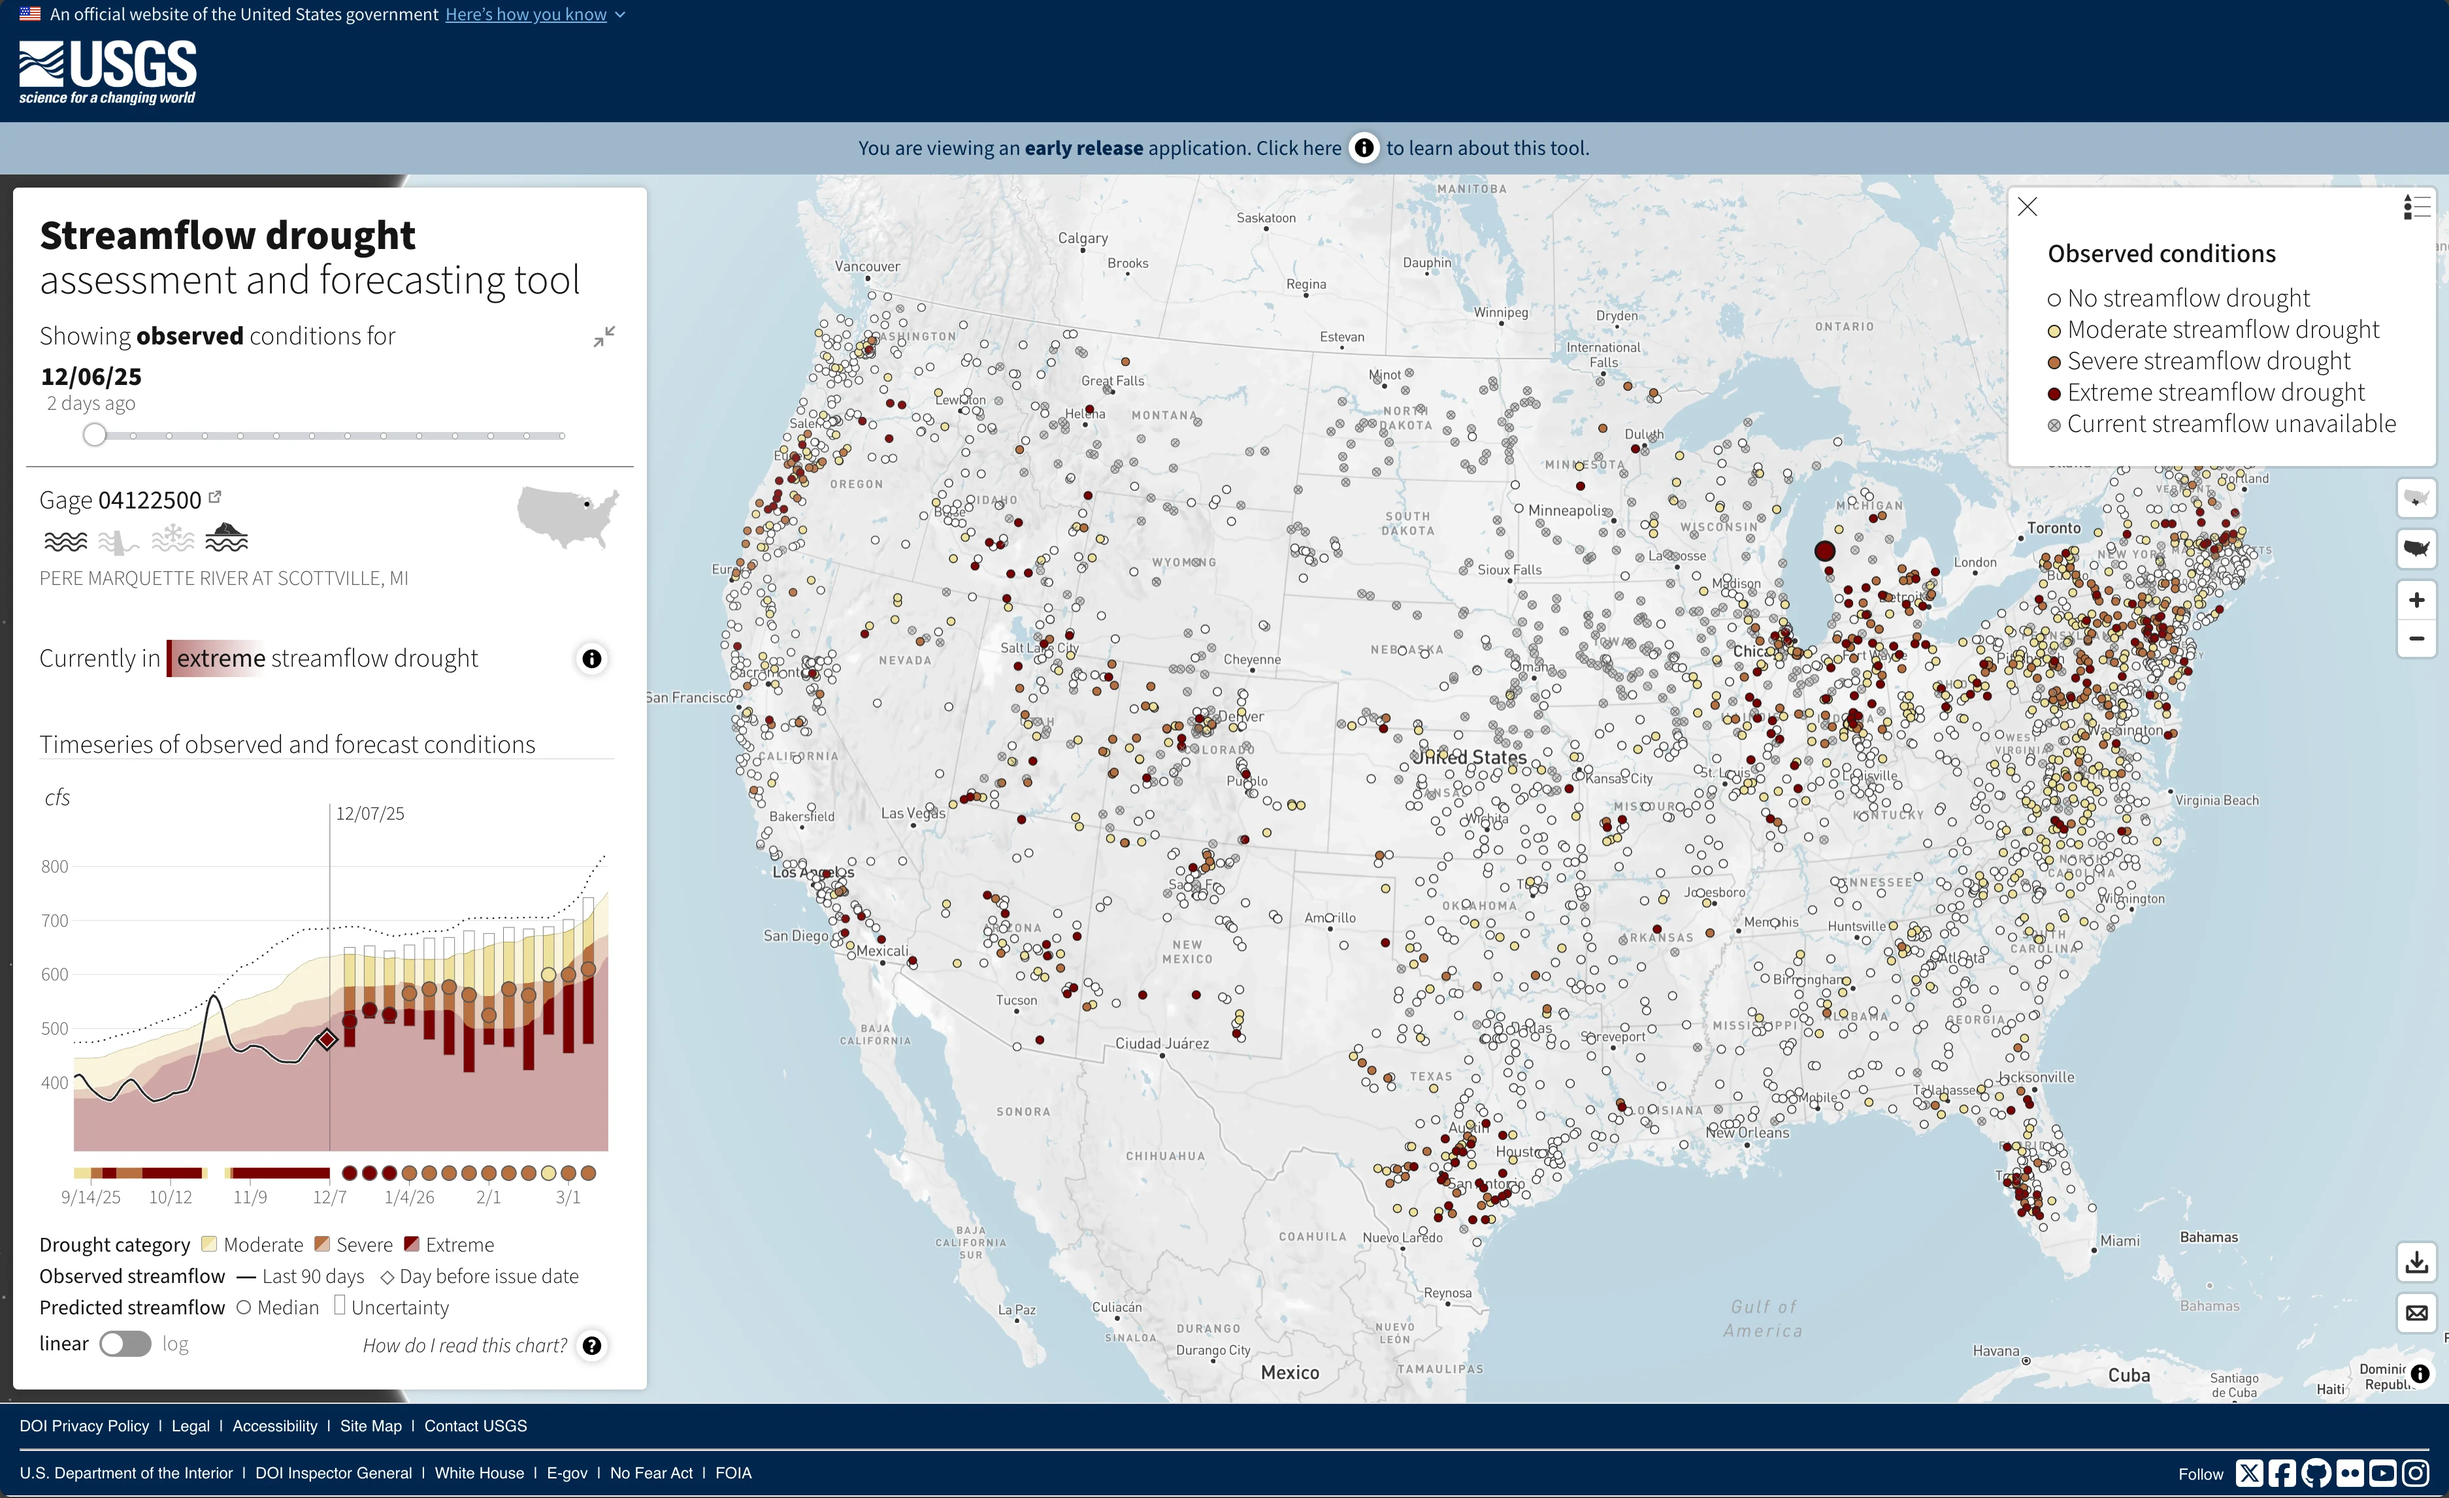
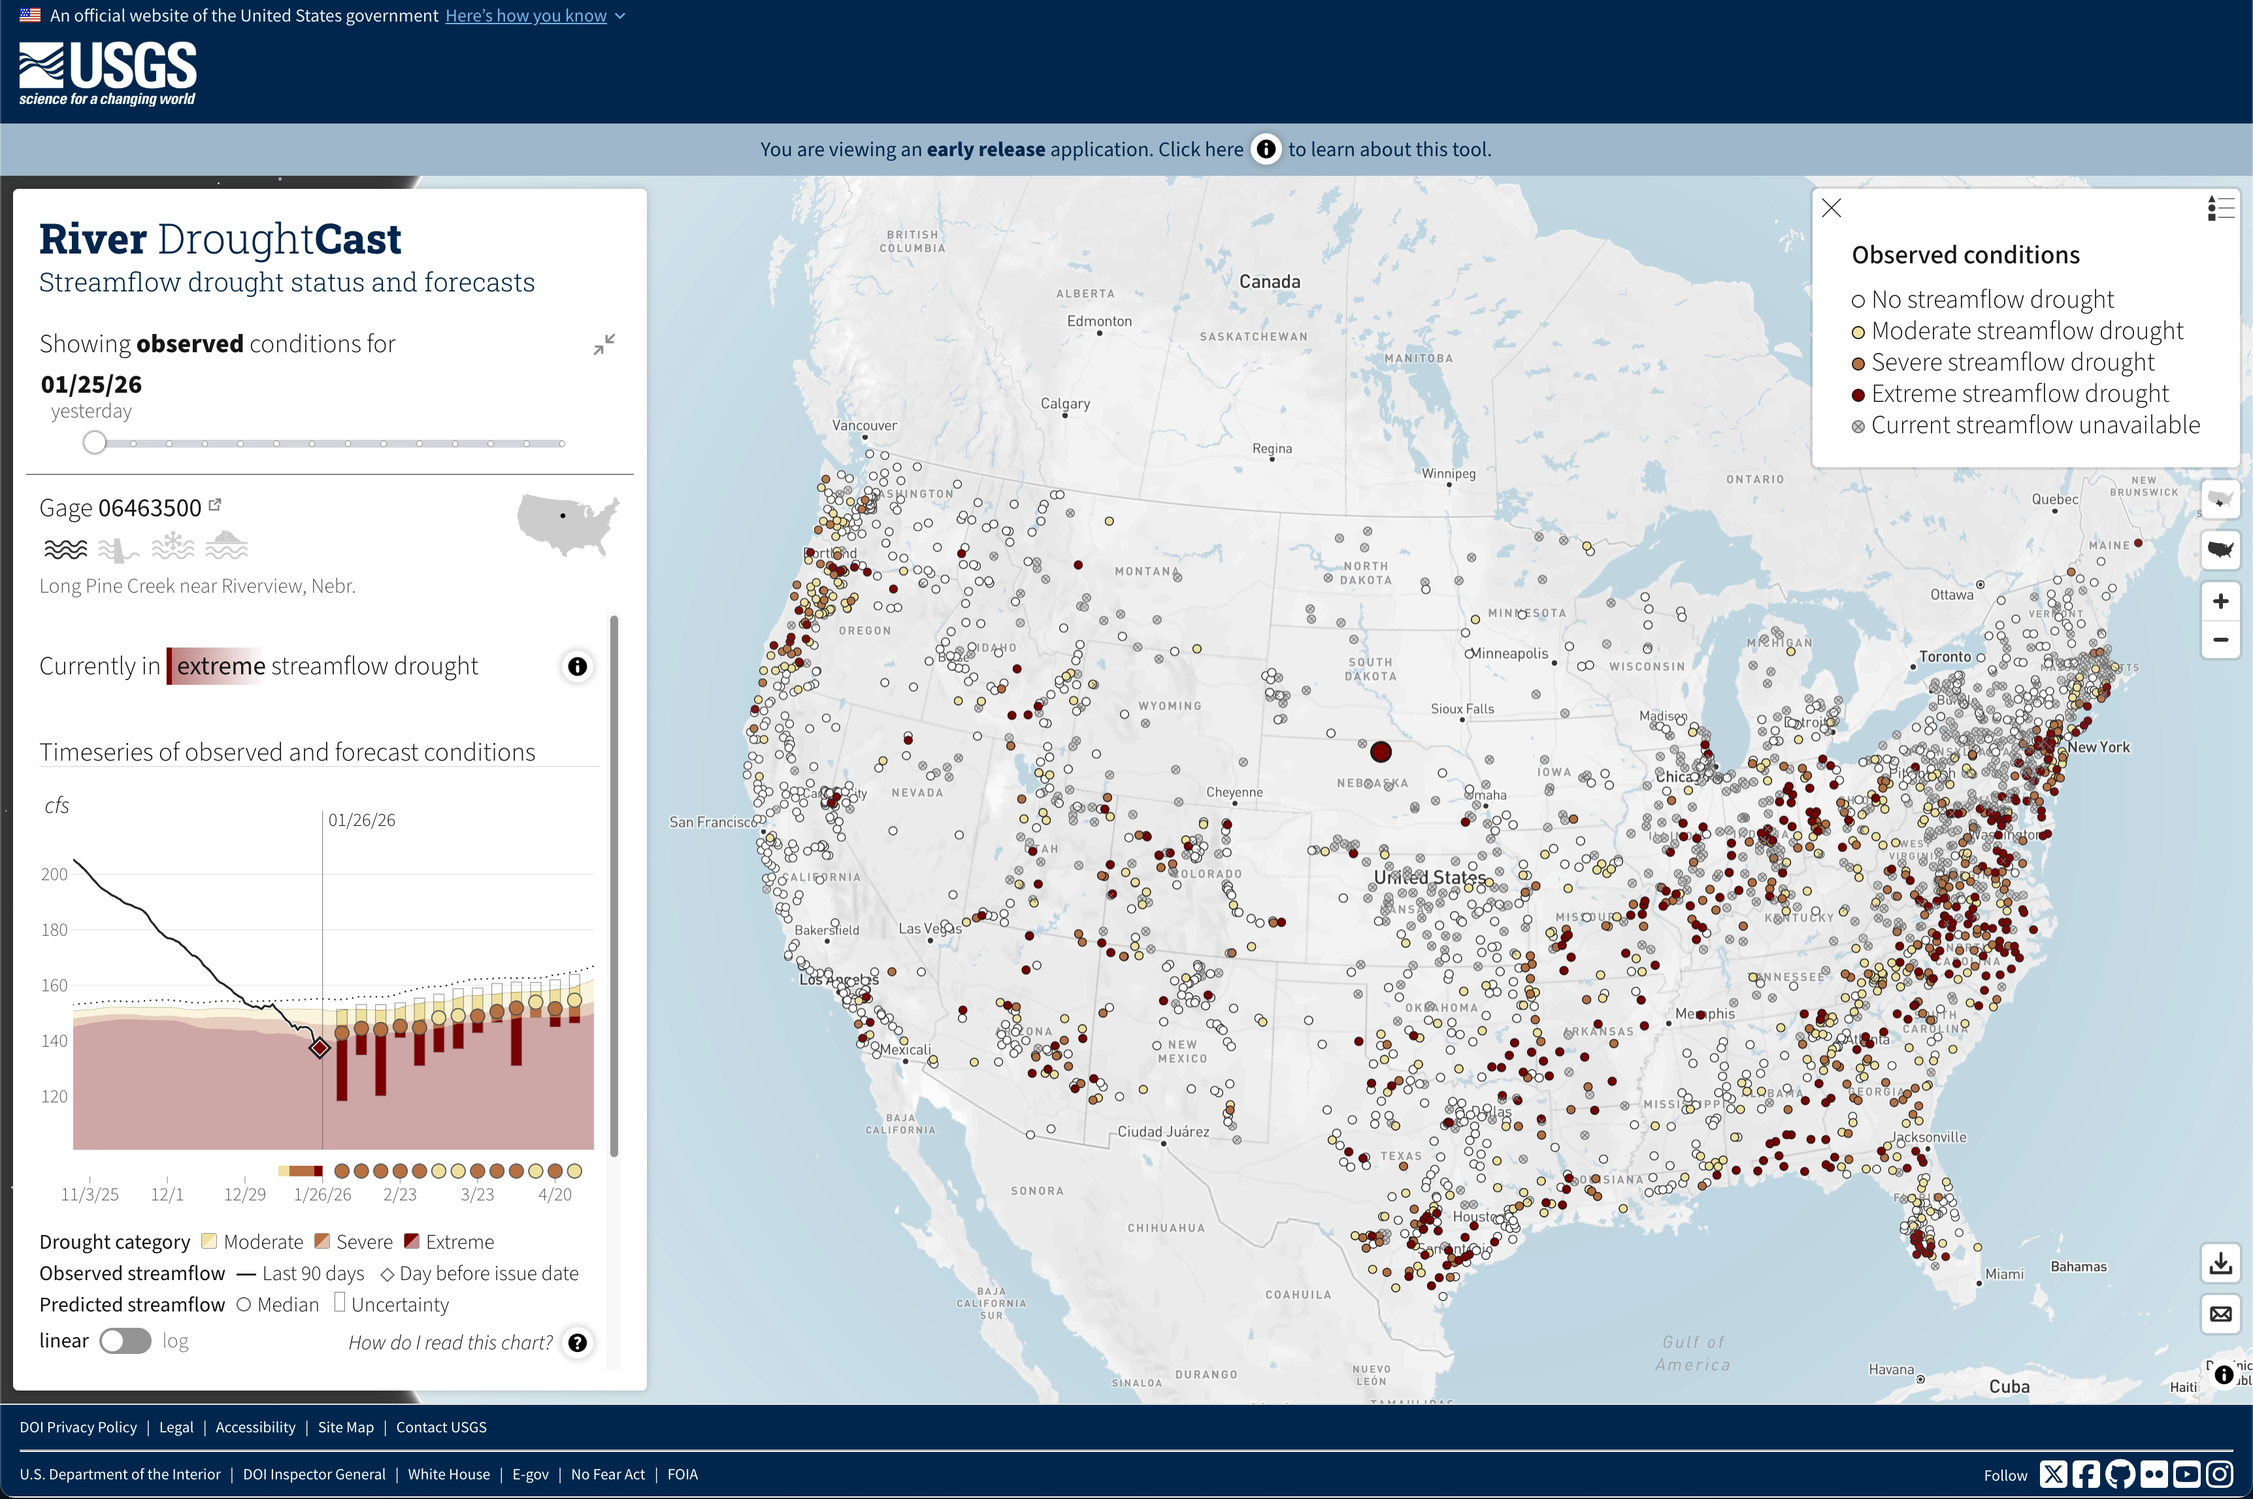
Name updates

diff --git a/src/assets/text/text.js b/src/assets/text/text.js
@@ -10,8 +10,8 @@ export default {
         mapperDiagram: {
             mapPathDesktop: "map_desktop.webp",
             mapPathMobile: "map_mobile.webp",
-            caption: "Explore a map of current and forecast streamflow drought conditions across the conterminous United States and view detailed forecasts for individual sites on the <a aria-label='Link to Streamflow drought assessment and forecasting tool' href='https://water.usgs.gov/vizlab/streamflow-drought-forecasts/' target='_blank'>Streamflow drought assessment and forecasting tool</a> (Corson-Dosch et al., 2025).",
-            mapAlt: "The Streamflow drought assessment and forecasting tool web map displays current streamflow drought at USGS streamgages across the lower 48 states."
+            caption: "The <a aria-label='Link to River DroughtCast mapper' href='https://water.usgs.gov/vizlab/streamflow-drought-forecasts/' target='_blank'>River DroughtCast</a> mapper (Corson-Dosch et al., 2025) displays current and forecast streamflow drought across the conterminous United States. Users can also view detailed forecasts for individual sites up to 13 weeks in the future.",
+            mapAlt: "The River DroughtCast web map displays current streamflow drought at USGS streamgages across the lower 48 states."
         }        
     },
     WhenIsADroughtADrought: {
@@ -80,8 +80,8 @@ export default {
             ariaLabel: "An example timeseries plot showing predictions of streamflow percentile for 1 through 13 weeks from the issue date."
         },
         forecastExplore: {
-            paragraph1: "As noted above, the training dataset is restricted to observed streamflow values below the 30<sup>th</sup> percentile. This produces a trained model that can more accurately predict the occurrence and severity of streamflow drought. But when the model predicts that streamflow drought will <i>not</i> occur, the streamflow percentile predicted by the model may be lower than what will actually be observed. This reduced accuracy can occur at percentiles above the 30<sup>th</sup> percentile but can result in improved accuracy at low streamflow percentiles, since this tool was developed to forecast streamflow drought.",
-            paragraph2: "<span class='paragraph-note'>The USGS has also developed a second model that was trained on all percentiles. While this model is less accurate for predicting streamflow drought than the primary model trained on observed streamflow below the 30<sup>th</sup> percentile, it may be preferred by some users as its predictions more intuitively capture conditions when streamflow drought is not predicted. Predictions generated by both models are available for download on the <a href='https://water.usgs.gov/vizlab/streamflow-drought-forecasts' target='_blank'>Streamflow drought assessment and forecasting tool</a>. This website and the tool use results from the model trained on observed streamflow values below the 30<sup>th</sup> percentile, as it more accurately predicts the occurrence and severity of streamflow drought.</span>",
+            paragraph1: "As noted above, the training dataset is restricted to observed streamflow values below the 30<sup>th</sup> percentile. This produces a trained model that can more accurately predict the occurrence and severity of streamflow drought. But when the model predicts that streamflow drought will <i>not</i> occur, the streamflow percentile predicted by the model may be lower than what will actually be observed. This reduced accuracy can occur at percentiles above the 30<sup>th</sup> percentile but can result in improved accuracy at low streamflow percentiles, since this model was developed to forecast streamflow drought.",
+            paragraph2: "<span class='paragraph-note'>The USGS has also developed a second model that was trained on all percentiles. While this model is less accurate for predicting streamflow drought than the primary model trained on observed streamflow below the 30<sup>th</sup> percentile, it may be preferred by some users as its predictions more intuitively capture conditions when streamflow drought is not predicted. Predictions generated by both models are available for download on the <a href='https://water.usgs.gov/vizlab/streamflow-drought-forecasts' target='_blank'>River DroughtCast</a> mapper. This website and the mapper use results from the model trained on observed streamflow values below the 30<sup>th</sup> percentile, as it more accurately predicts the occurrence and severity of streamflow drought.</span>",
             paragraph3: "We can observe how this model works and performs by comparing forecasts to observations at an example site. On the initial issue date, the model uses past streamflow conditions and other input data to make a forecast for the next 13 weeks. On the next issue date, the model updates its forecast by taking into account the most recent streamflow and precipitation data. The plot below overlays current and previous forecasts, showing how the model incorporates new data and updates its predictions.",
             caption1Desktop: "Hover your mouse over the plot to observe how the model forecasts streamflow drought. For each issue date, the darkest blue line shows the current forecast. Previously generated forecasts are shown using faded lines, where the oldest forecasts are the faintest. The dotted line indicates the 30<sup>th</sup> percentile. The model is trained to accurately predict streamflow below this percentile. Anything below the 20<sup>th</sup> percentile is considered streamflow drought. Values are example data.",
             caption1Responsive: "Tap on the plot to observe how the model forecasts streamflow drought. For each issue date, the darkest blue line shows the current forecast. Previously generated forecasts are shown using faded lines, where the oldest forecasts are the faintest. The dotted line indicates the 30<sup>th</sup> percentile. The model is trained to accurately predict streamflow below this percentile. Anything below the 20<sup>th</sup> percentile is considered streamflow drought. Values are example data.",

diff --git a/src/assets/text/references.js b/src/assets/text/references.js
@@ -48,7 +48,7 @@ export default {
       num: "4",
       authors: "Corson-Dosch, H., Watkins, D., Ross, J., Bucknell, M., Simeone, C., Hammond, J., Archer, A. & Nell, C.",
       year: "2025",
-      title: "Streamflow Drought Assessment and Forecasting Tool",
+      title: "River DroughtCast — Streamfow drought status and forecasts",
       journal: false,
       journal_name: "",
       journal_issue: "",

diff --git a/CHANGELOG.md b/CHANGELOG.md
@@ -4,7 +4,12 @@ All notable changes to this project will be documented in this file.
 The format is based on [Keep a Changelog](http://keepachangelog.com/)
 and this project adheres to [Semantic Versioning](http://semver.org/).
  
+## [1.2.0] - 2026-01-26
  
+### Changed
+
+- Updated name and screenshots of the River DroughtCast mapper
+
 ## [1.1.0] - 2026-01-08
  
 ### Changed
